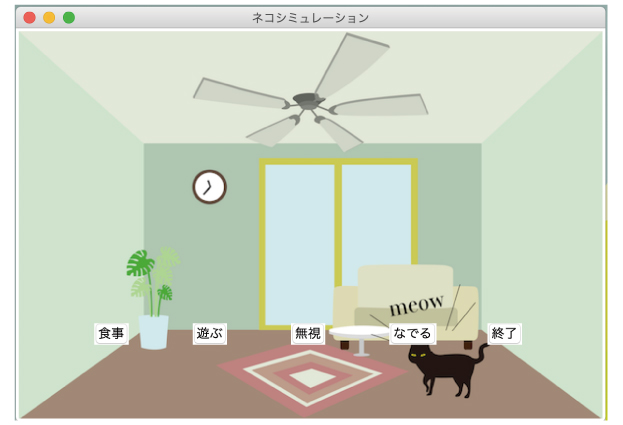
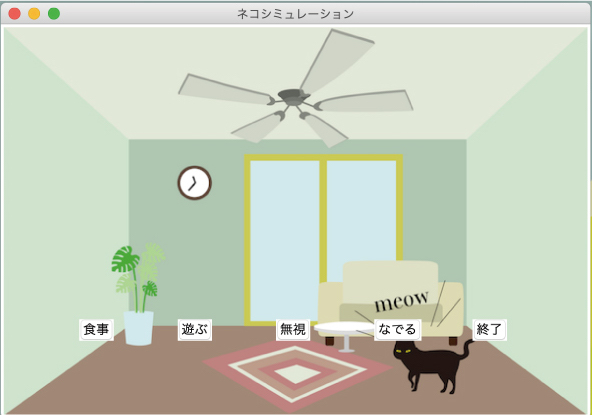
11/26-2

diff --git a/rikyu.html b/rikyu.html
@@ -46,15 +46,15 @@
                 <div class=" pages-section-bottom margins">
                     <p class="txt p-line">東京下町もんじゃ屋りきゅう津島店の開店をお知らせするチラシ、ショップカード、クーポン券を制作。
                             作成したものは社長及び本部の皆様、お客様から好評をいただき、私が担当・制作したショップカードの配布枚数は約2週間で200枚を超えました。</p>
-                    <h2 class="txt-h2">チラシ</h2>
-                    <img class="img pages-h1-bottom" src="images/rikyu-01.jpg" alt="チラシ">
-                    <h2 class="txt-h2">ショップカード</h2>
-                    <div class="pages-grid">
+                    <h2 class="txt-h2 margins">チラシ</h2>
+                    <img class="img-80 pages-h1-bottom" src="images/rikyu-01.jpg" alt="チラシ">
+                    <h2 class="txt-h2 margins">ショップカード</h2>
+                    <div class="pages-grid margins">
                         <img class="pages-grid-item" src="images/rikyu-02.jpg" alt="ショップカード表">
                         <img class="pages-grid-item pages-h1-bottom" src="images/rikyu-03.jpg" alt="ショップカード裏">
                     </div>
-                    <h2 class="txt-h2">クーポン券</h2>
-                    <div class="pages-grid">
+                    <h2 class="txt-h2 margins">クーポン券</h2>
+                    <div class="pages-grid margins">
                         <img class="pages-grid-item" src="images/rikyu-04.jpg" alt="クーポン１">
                         <img class="pages-grid-item pages-h1-bottom" src="images/rikyu-05.jpg" alt="クーポン２">
                     </div>

diff --git a/neko.html b/neko.html
@@ -48,13 +48,13 @@
                         とハッピーエンド、猫に体力が余ったまま終わってしま
                         うとバッドエンドとなる。</p>
                     <p class="txt s-line">ネコと一緒に遊ぶ</p>
-                    <img class="board-JPG pages-h1-bottom" src="images/neko-13.jpg" alt="４択">
+                    <img class="img-80 pages-h1-bottom" src="images/neko-13.jpg" alt="４択">
                     <p class="txt s-line">食事(左上)　遊ぶ(右上)　無視(左下)　なでる(右下)</p>
-                    <img class="board-JPG pages-h1-bottom" src="images/neko-14.jpg" alt="４つの流れ">
+                    <img class="img-80 pages-h1-bottom" src="images/neko-14.jpg" alt="４つの流れ">
                     <p class="txt s-line">ポーズ画面</p>
-                    <img class="board-JPG pages-h1-bottom" src="images/neko-16.jpg" alt="ポーズ">
+                    <img class="img-80 pages-h1-bottom" src="images/neko-16.jpg" alt="ポーズ">
                     <p class="txt s-line">エンディング</p>
-                    <img class="board-JPG pages-h1-bottom" src="images/neko-15.jpg" alt="エンド">
+                    <img class="img-80 pages-h1-bottom" src="images/neko-15.jpg" alt="エンド">
                 </div>
             </section>
 
